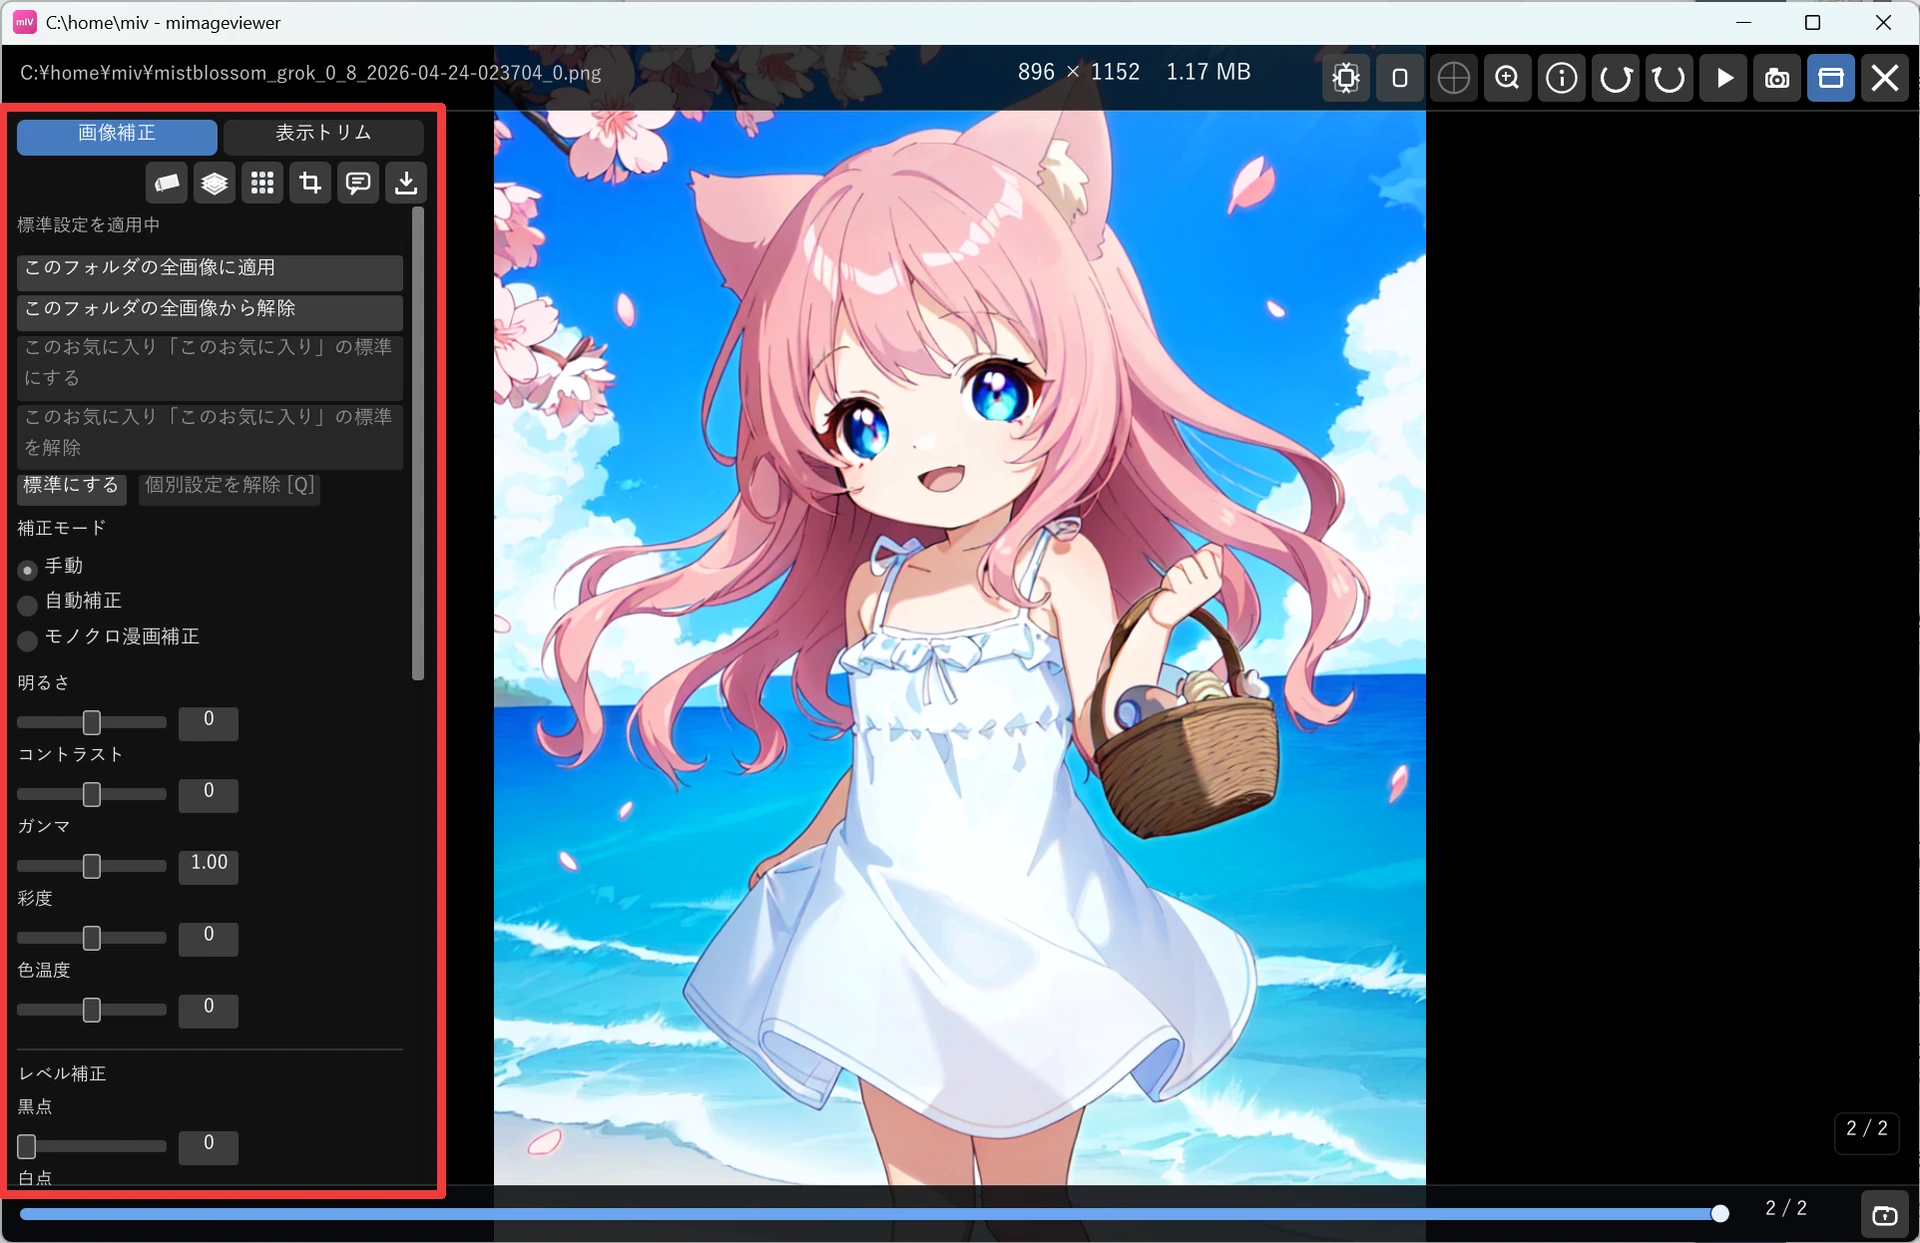
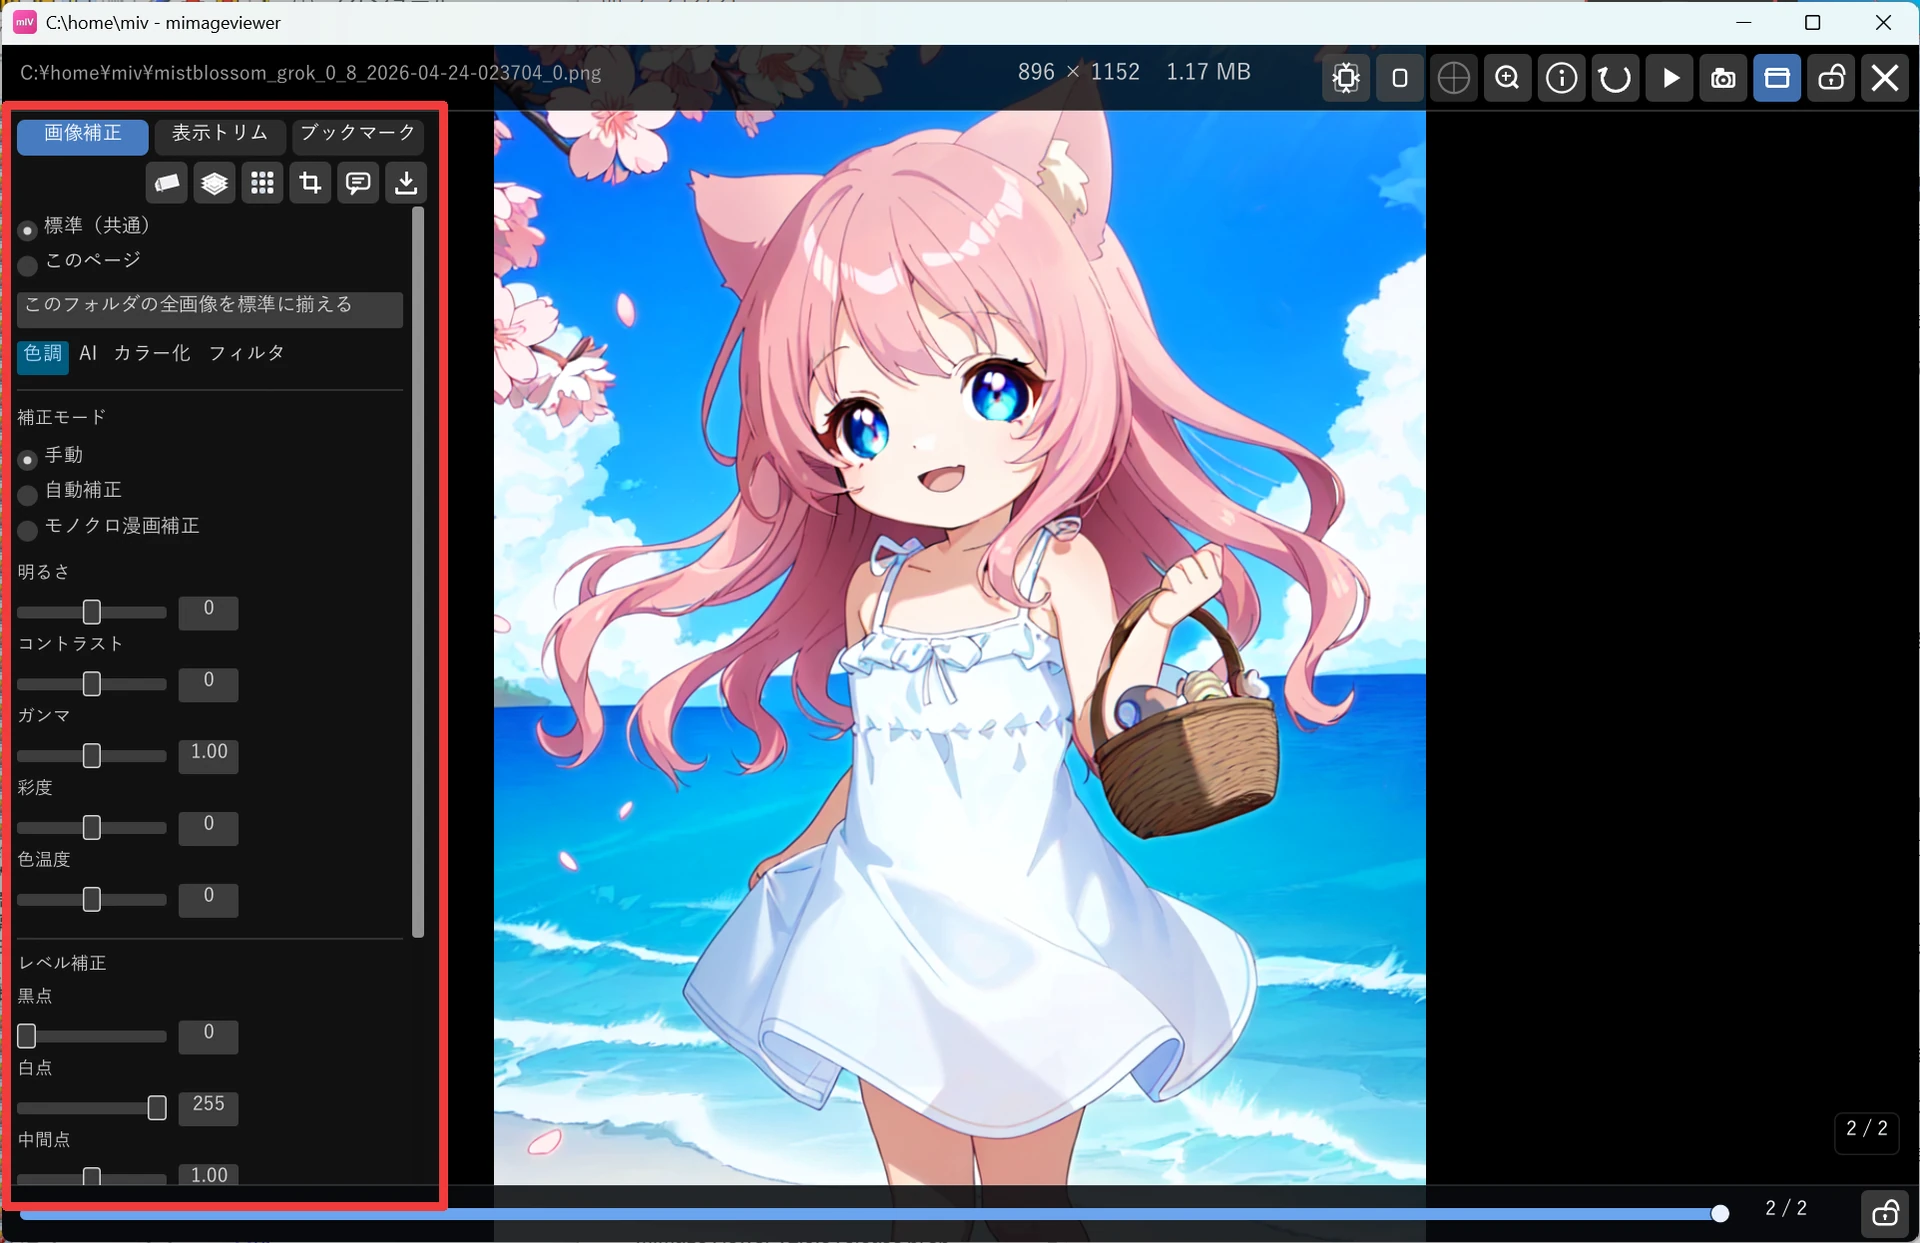
Reshoot the six manual screenshots the scope rework invalidated
Four showed UI that no longer exists: the 標準設定を適用中 label with the five
buttons beneath it (tut-adjust-1), the trim tab's three radios plus a page
checkbox (tut-adjust-3, tut-reading-3), and - found while auditing the rest -
tut-local-adjust-1, whose red box marks the unchanged layer icon but whose
frame is filled by 「このお気に入り「miv」の標準にする」 and its neighbours.

Two more were already stale from the sub-tab reorganisation rather than this
branch, and were retaken while the app was open: tut-upscale-view-1 (the AI
section is now behind its own tab) and tut-adjust-2 (「保存スロット」 became
「画像補正保存スロット」, dialog title included).

Alt text and captions follow what the new frames actually show, which is not
always what the old ones said: the trim shots have 手動設定 unselected, so the
適用範囲 selector is not visible and the caption says where it appears instead
of describing it as present; the upscale shot was taken in 軽量 mode and lists
four models rather than seven, with a note that the count follows the AI mode
setting.

Converted at 1920x1243 to match the existing set, quality 90 - the panel is
mostly small text, and 80 was visibly softer on the labels.

diff --git a/htdocs/mimageviewer/manual/tut-adjust.html b/htdocs/mimageviewer/manual/tut-adjust.html
@@ -65,7 +65,7 @@
     </p>
 
     <figure class="tut-shot">
-      <img src="images/tut-adjust-1.webp" alt="フルスクリーン左端に表示された画像補正パネル。上部に「画像補正」「表示トリム」タブ、フォルダ適用ボタン、補正モードのラジオ、明るさ・コントラスト・ガンマ・彩度・色温度・レベル補正のスライダーが並んでいる">
+      <img src="images/tut-adjust-1.webp" alt="フルスクリーン左端に表示された画像補正パネル。上部に「画像補正」「表示トリム」「ブックマーク」タブ、書き込み先を選ぶ「標準（共通）」「このページ」のラジオ、「このフォルダの全画像を標準に揃える」ボタン、色調・AI・カラー化・フィルタのタブ、補正モードのラジオ、明るさ・コントラスト・ガンマ・彩度・色温度・レベル補正のスライダーが並んでいる">
       <figcaption>画面左端に現れる補正パネル（赤枠）。現在の左パネルは「画像補正」「表示トリム」「ブックマーク」の 3 タブで切り替えます。スライダーを動かすと、パネル上部のラジオで選んでいる方（その場所の標準 / このページ）へすぐに反映されます。</figcaption>
     </figure>
 
@@ -164,8 +164,8 @@
     </ul>
 
     <figure class="tut-shot">
-      <img src="images/tut-adjust-2.webp" alt="パネル下部の保存スロット欄（1〜0 の10枠）と、スロットに名前を付ける「保存スロット名」ダイアログ">
-      <figcaption>パネル下部の保存スロット欄（赤枠）。名前を付けて保存すると、<kbd>Ctrl</kbd>+数字キーで別の画像にもすぐ呼び出せます。</figcaption>
+      <img src="images/tut-adjust-2.webp" alt="パネル下部の「画像補正保存スロット」欄（1〜0 の10枠）と、スロットに名前を付ける「画像補正保存スロット名」ダイアログ">
+      <figcaption>パネル下部の「画像補正保存スロット」欄（赤枠）。名前を付けて保存すると、<kbd>Ctrl</kbd>+数字キーで別の画像にもすぐ呼び出せます。</figcaption>
     </figure>
 
     <h2>表示トリム（読むための余白カット）</h2>
@@ -189,8 +189,8 @@
     </div>
 
     <figure class="tut-shot">
-      <img src="images/tut-adjust-3.webp" alt="左パネルの「表示トリム」タブ。トリムなし・自動余白カット・手動設定のラジオボタンと、手動設定を選んだときに現れる適用範囲（本全体 / このページ）の切替が並んでいる">
-      <figcaption>「表示トリム」タブ（赤枠）。余白の切り方を「自動」「本全体」「このページだけ」から選べます。これは表示だけの余白カットで、保存・エクスポートした画像には反映されません。</figcaption>
+      <img src="images/tut-adjust-3.webp" alt="左パネルの「表示トリム」タブ。トリムなし（選択中）・自動余白カット（本全体）・手動設定の 3 つのラジオボタンが並んでいる">
+      <figcaption>「表示トリム」タブ（赤枠）。まず「トリムなし」「自動余白カット（本全体）」「手動設定」から選びます。「手動設定」にすると、この下に「適用範囲：本全体 / このページ」と余白のスライダーが現れます。これは表示だけの余白カットで、保存・エクスポートした画像には反映されません。</figcaption>
     </figure>
 
     <div class="box warn">

diff --git a/htdocs/mimageviewer/manual/tut-upscale-view.html b/htdocs/mimageviewer/manual/tut-upscale-view.html
@@ -67,8 +67,8 @@
     </p>
 
     <figure class="tut-shot">
-      <img src="images/tut-upscale-view-1.webp" alt="フルスクリーン左側の補正パネル。「AI アップスケール」欄（赤枠）に「なし／自動（画像タイプ判別）／写真・CG（ノイズ除去強）／イラスト・アニメ／漫画（トーン保持）／写真（質感保持）／高速汎用」のラジオボタンが並び、「高速汎用」が選択されている。上部のファイル情報に元サイズと拡大後サイズが表示されている">
-      <figcaption>補正パネルの「AI アップスケール」欄（赤枠）でモデルを選ぶと、表示中の画像がその場でアップスケールされます。上部のファイル情報には、元のサイズと拡大後のサイズ（例: 896×1152 →「高速汎用 3584×4608」）が並んで表示されます。</figcaption>
+      <img src="images/tut-upscale-view-1.webp" alt="フルスクリーン左側の補正パネル。「AI」タブ（赤枠）を選んだ状態で、「AI アップスケール」欄（赤枠）に「なし／自動（画像タイプ判別）／漫画（トーン保持）／高速汎用」のラジオボタンが並び、「高速汎用」が選択されている。上部のファイル情報に元サイズと拡大後サイズが表示されている">
+      <figcaption>補正パネルの「AI」タブ（赤枠）にある「AI アップスケール」欄（赤枠）でモデルを選ぶと、表示中の画像がその場でアップスケールされます。上部のファイル情報には、元のサイズと拡大後のサイズ（例: 896×1152 →「高速汎用 3584×4608」）が並んで表示されます。選択肢の数は環境設定の AI モードで変わります。</figcaption>
     </figure>
 
     <h2>選んだモデルがどこに効くか</h2>

diff --git a/htdocs/mimageviewer/manual/tut-reading.html b/htdocs/mimageviewer/manual/tut-reading.html
@@ -137,7 +137,7 @@
     </p>
 
     <figure class="tut-shot">
-      <img src="images/tut-reading-3.webp" alt="左パネルの表示トリムタブ。画像補正と表示トリムの切り替えタブがあり、表示トリム側にトリムなし・自動余白カット（選択中）・手動設定のラジオが並ぶ">
+      <img src="images/tut-reading-3.webp" alt="ZIP で開いたサンプル本の表示。左パネルの表示トリムタブに、トリムなし（選択中）・自動余白カット（本全体）・手動設定のラジオが並ぶ">
       <figcaption>左パネルの「表示トリム」タブ（赤枠）。トリムなし・自動余白カット・手動設定から選び、「手動設定」にすると適用範囲（本全体 / このページ）とスライダーで上下左右を手動調整できます。トリムされた部分は描画されず、背景色が見えます。</figcaption>
     </figure>
 
